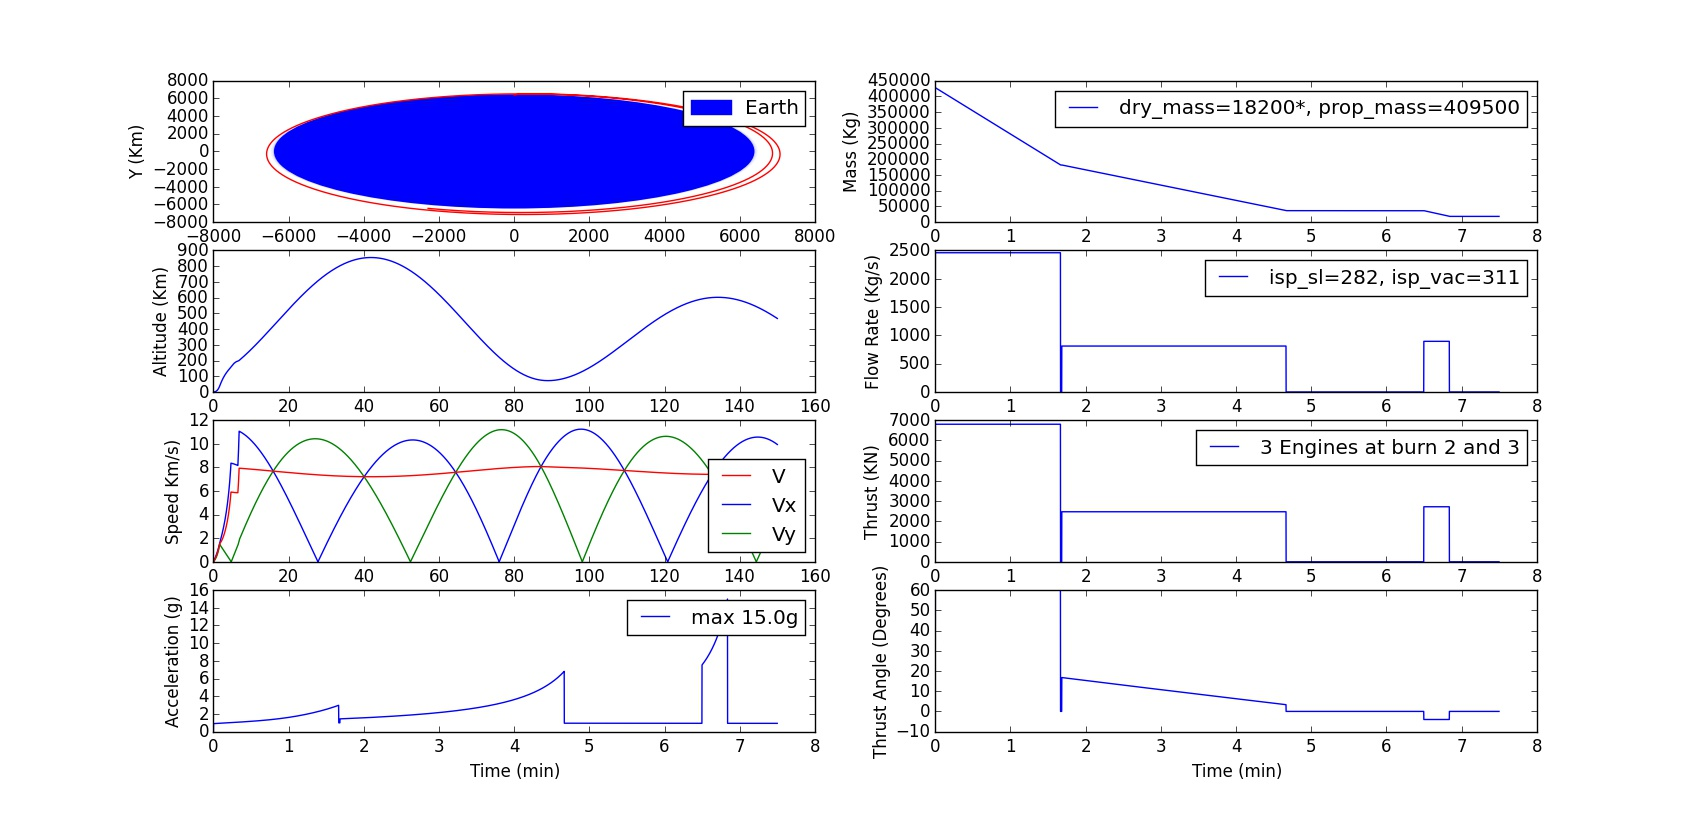
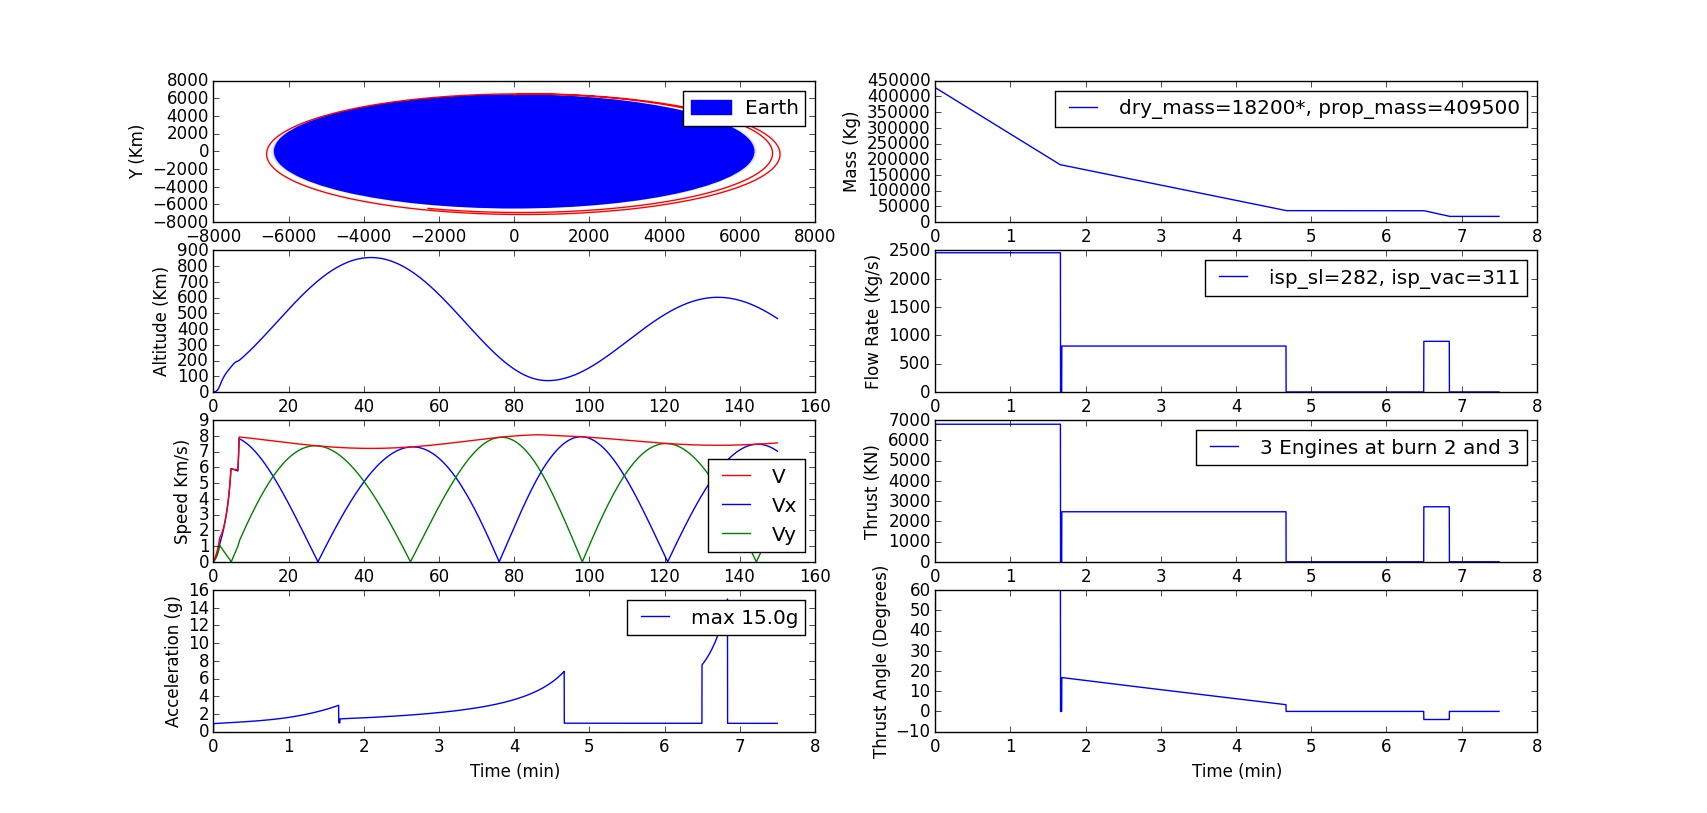
bug fix for speed plot

Changed region(s): [[0.0931, 0.5228, 0.4657, 0.6765], [0.3726, 0.6458, 0.4036, 0.6765]]

diff --git a/falcon9_SSTO.py b/falcon9_SSTO.py
@@ -315,8 +315,8 @@ current_thrust_angle = 0.
 ENABLE_DRAG = True
 trajectory = get_trajectory(x0, y0, v0) 
 tmp_plot_1, = ax1.plot([x0i[POS_X]/1000. for ti,x0i in trajectory], [x0i[POS_Y]/1000. for ti,x0i in trajectory], color='r', label='')
-tmp_plot_2x, = ax2.plot([ti/60. for ti,x0i in trajectory], [sqrt(x0i[POS_VX]**2 + x0i[POS_VX]**2)/1000. for ti,x0i in trajectory], label='Vx')
-tmp_plot_2y, = ax2.plot([ti/60. for ti,x0i in trajectory], [sqrt(x0i[POS_VY]**2 + x0i[POS_VY]**2)/1000. for ti,x0i in trajectory], label='Vy')
+tmp_plot_2x, = ax2.plot([ti/60. for ti,x0i in trajectory], [abs(x0i[POS_VX])/1000. for ti,x0i in trajectory], label='Vx')
+tmp_plot_2y, = ax2.plot([ti/60. for ti,x0i in trajectory], [abs(x0i[POS_VY])/1000. for ti,x0i in trajectory], label='Vy')
 tmp_plot_2, = ax2.plot([ti/60. for ti,x0i in trajectory], [sqrt(x0i[POS_VX]**2 + x0i[POS_VY]**2)/1000. for ti,x0i in trajectory], label='V')
 tmp_plot_3, = ax3.plot([ti/60. for ti,x0i in trajectory if ti < 450], [x0i[TMP_POS_A] for ti,x0i in trajectory  if ti < 450], label='max ' + str(round(max_acceleration,1)) + 'g')
 tmp_plot_4, = ax4.plot([ti/60. for ti,x0i in trajectory], [(sqrt(x0i[POS_X]**2 + x0i[POS_Y]**2) - Re)/1000. for ti,x0i in trajectory], label='')
